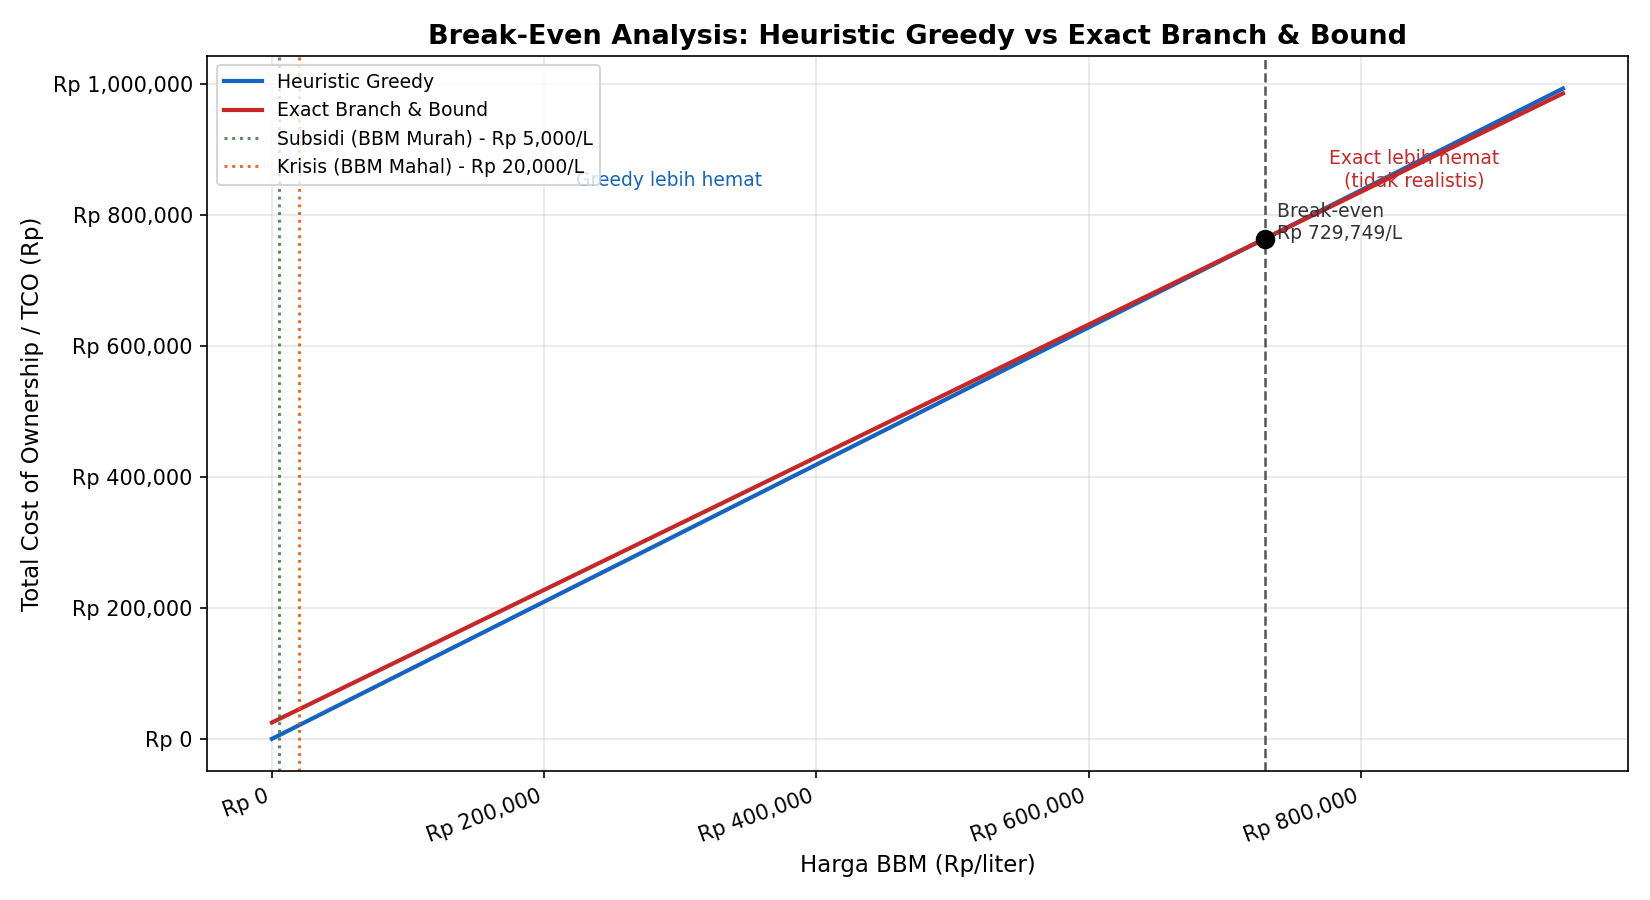
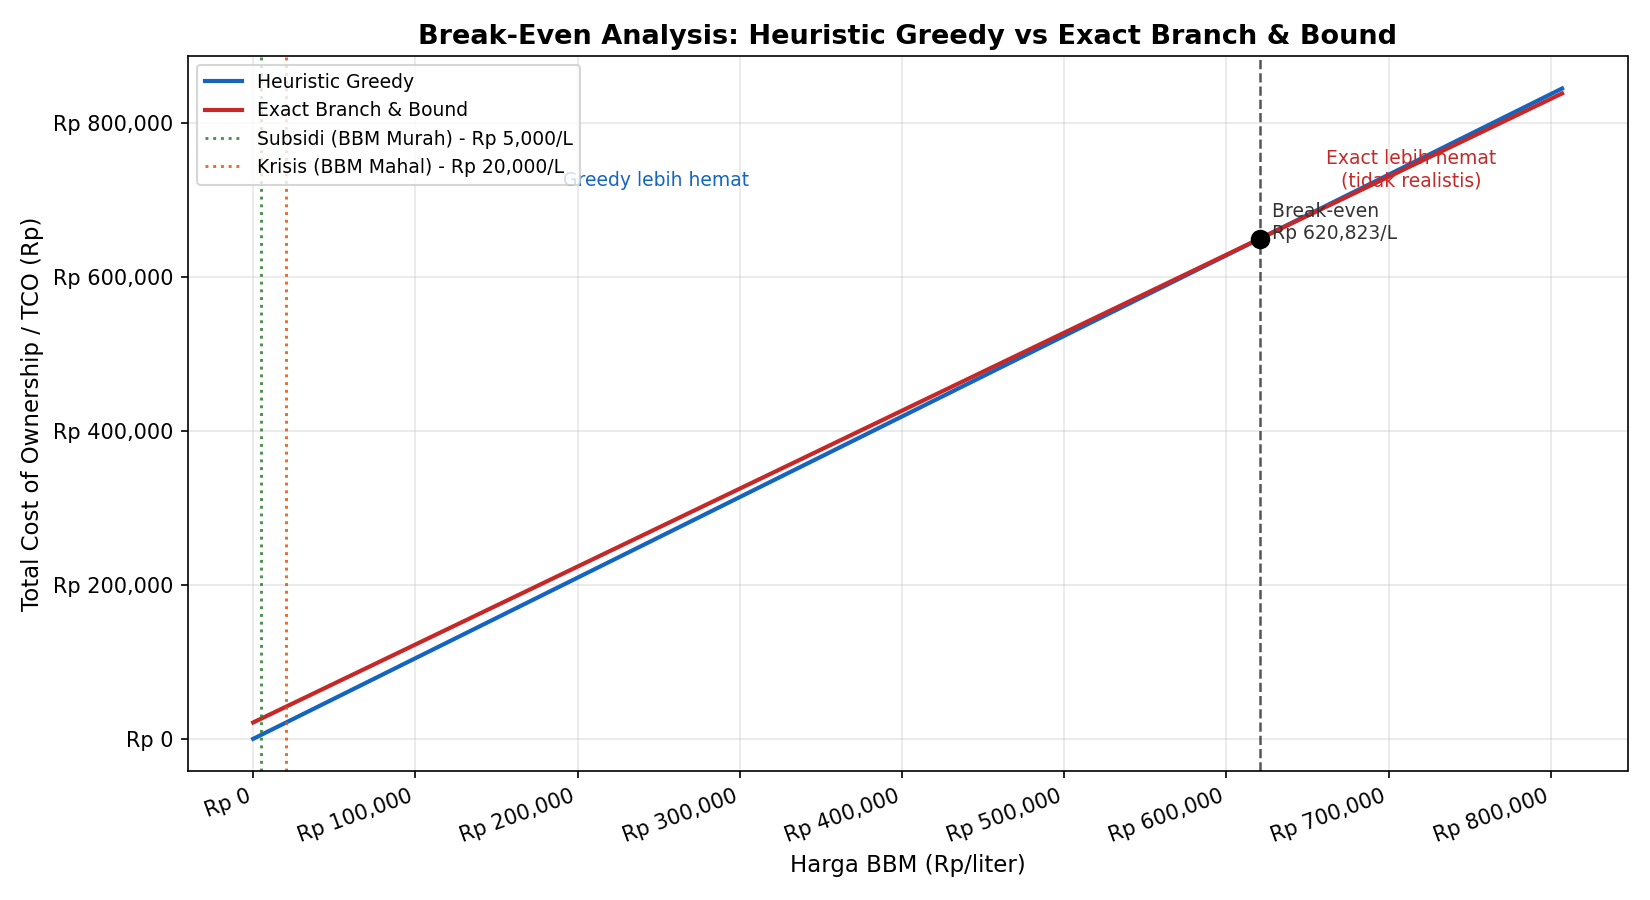
docs: add screenshot

diff --git a/README.md b/README.md
@@ -105,19 +105,21 @@ Dengan n = 12 pelanggan: Greedy selesai dalam sekitar 0.00005 detik, B&B membutu
 
 ### Hasil simulasi
 
+![Screenshot](docs/screenshot.png)
+
 | | Skenario Subsidi (Rp 5.000/L) | Skenario Krisis (Rp 20.000/L) |
 |---|---|---|
 | Greedy - jarak | 31.07 km | 31.07 km |
-| Greedy - TCO | Rp 5.238 | Rp 20.946 |
+| Greedy - TCO | Rp 5.237 | Rp 20.946 |
 | Exact B&B - jarak | 29.48 km | 29.48 km |
-| Exact B&B - TCO | Rp 29.007 | Rp 47.077 |
+| Exact B&B - TCO | Rp 26.406 | Rp 41.466 |
 | Rekomendasi | **Greedy** | **Greedy** |
 
 ### Apa yang bisa disimpulkan
 
 Di kedua skenario, Greedy menang secara TCO dengan selisih yang sangat besar.
 
-Memang benar bahwa B&B menghasilkan rute yang lebih pendek, sekitar 5% lebih efisien (29.48 km vs 31.07 km). Tapi penghematan BBM dari selisih jarak itu hanya sekitar Rp 170 di skenario subsidi dan Rp 686 di skenario krisis. Sementara biaya komputasi server untuk menjalankan B&B dengan sistem pay-as-you-go Rp 50/ms mencapai sekitar Rp 25.000 per pengiriman. Tidak sebanding sama sekali.
+Memang benar bahwa B&B menghasilkan rute yang lebih pendek, sekitar 5% lebih efisien (29.48 km vs 31.07 km). Tapi penghematan BBM dari selisih jarak itu hanya sekitar Rp 171 di skenario subsidi dan Rp 686 di skenario krisis. Sementara biaya komputasi server untuk menjalankan B&B dengan sistem pay-as-you-go Rp 50/ms mencapai sekitar Rp 21.000 per pengiriman. Tidak sebanding sama sekali.
 
 ### Titik Break-Even
 
@@ -132,10 +134,10 @@ Kedua garis di grafik adalah fungsi linear dari harga BBM:
 Perpotongan kedua garis adalah titik break-even, yang bisa dihitung langsung:
 
 ```
-Selisih konsumsi BBM     : sekitar 0.034 liter (Greedy lebih boros)
-Selisih biaya komputasi  : sekitar Rp 25.000 (B&B lebih mahal)
+Selisih konsumsi BBM     : 0.0343 liter (Greedy lebih boros)
+Selisih biaya komputasi  : Rp 21.273 (B&B lebih mahal)
 
-Harga BBM break-even = Rp 25.000 / 0.034 liter = sekitar Rp 735.000/liter
+Harga BBM break-even = Rp 21.273 / 0.0343 liter = sekitar Rp 620.000/liter
 ```
 
 B&B baru lebih menguntungkan kalau harga BBM melampaui angka itu. Angka yang jelas tidak akan terjadi dalam kondisi ekonomi manapun yang masuk akal, termasuk skenario krisis sekalipun.